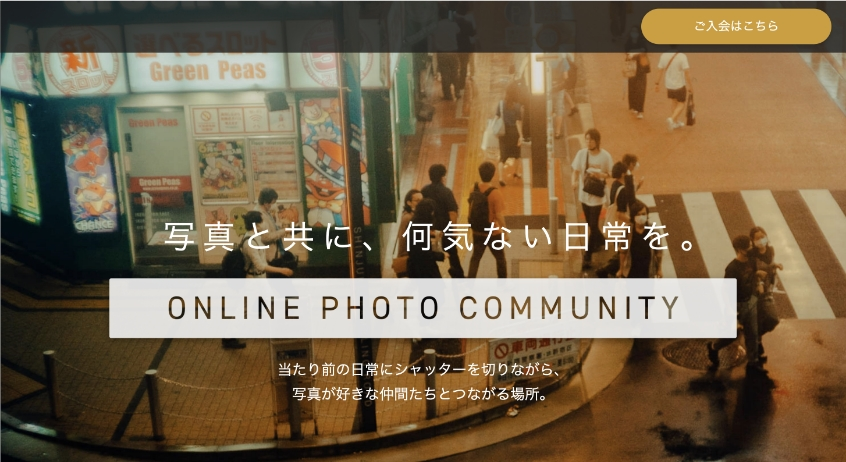
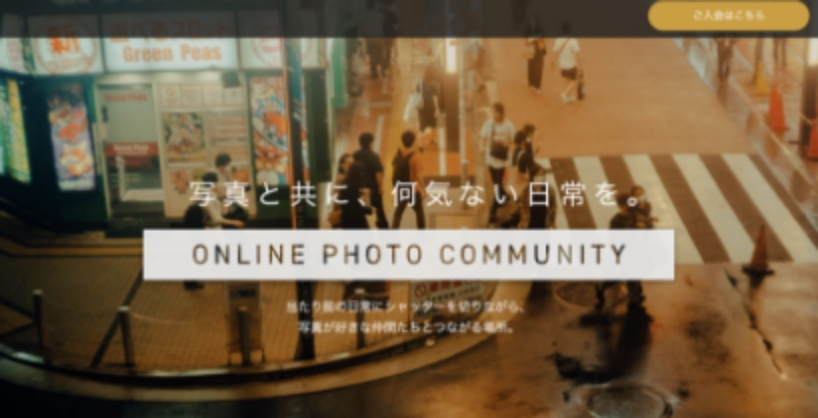
まなみ：修正

diff --git a/src/sass/object/project/_p-mainvisual.scss b/src/sass/object/project/_p-mainvisual.scss
@@ -7,12 +7,16 @@
     text-align: center;
     position: relative;
     width: 100%;
+    height: rem(773);
 }
 
 .p-mainviual__title {
     font-size: rem(24);
+    margin-top: rem(299);
+    display: block;
 }
 
 .p-mainvisual__contents {
     font-size: rem(18);
+    padding-top: rem(0.6);
 }

diff --git a/src/sass/object/project/_p-achievement.scss b/src/sass/object/project/_p-achievement.scss
@@ -1,0 +1,2 @@
+@use "global" as *;
+
